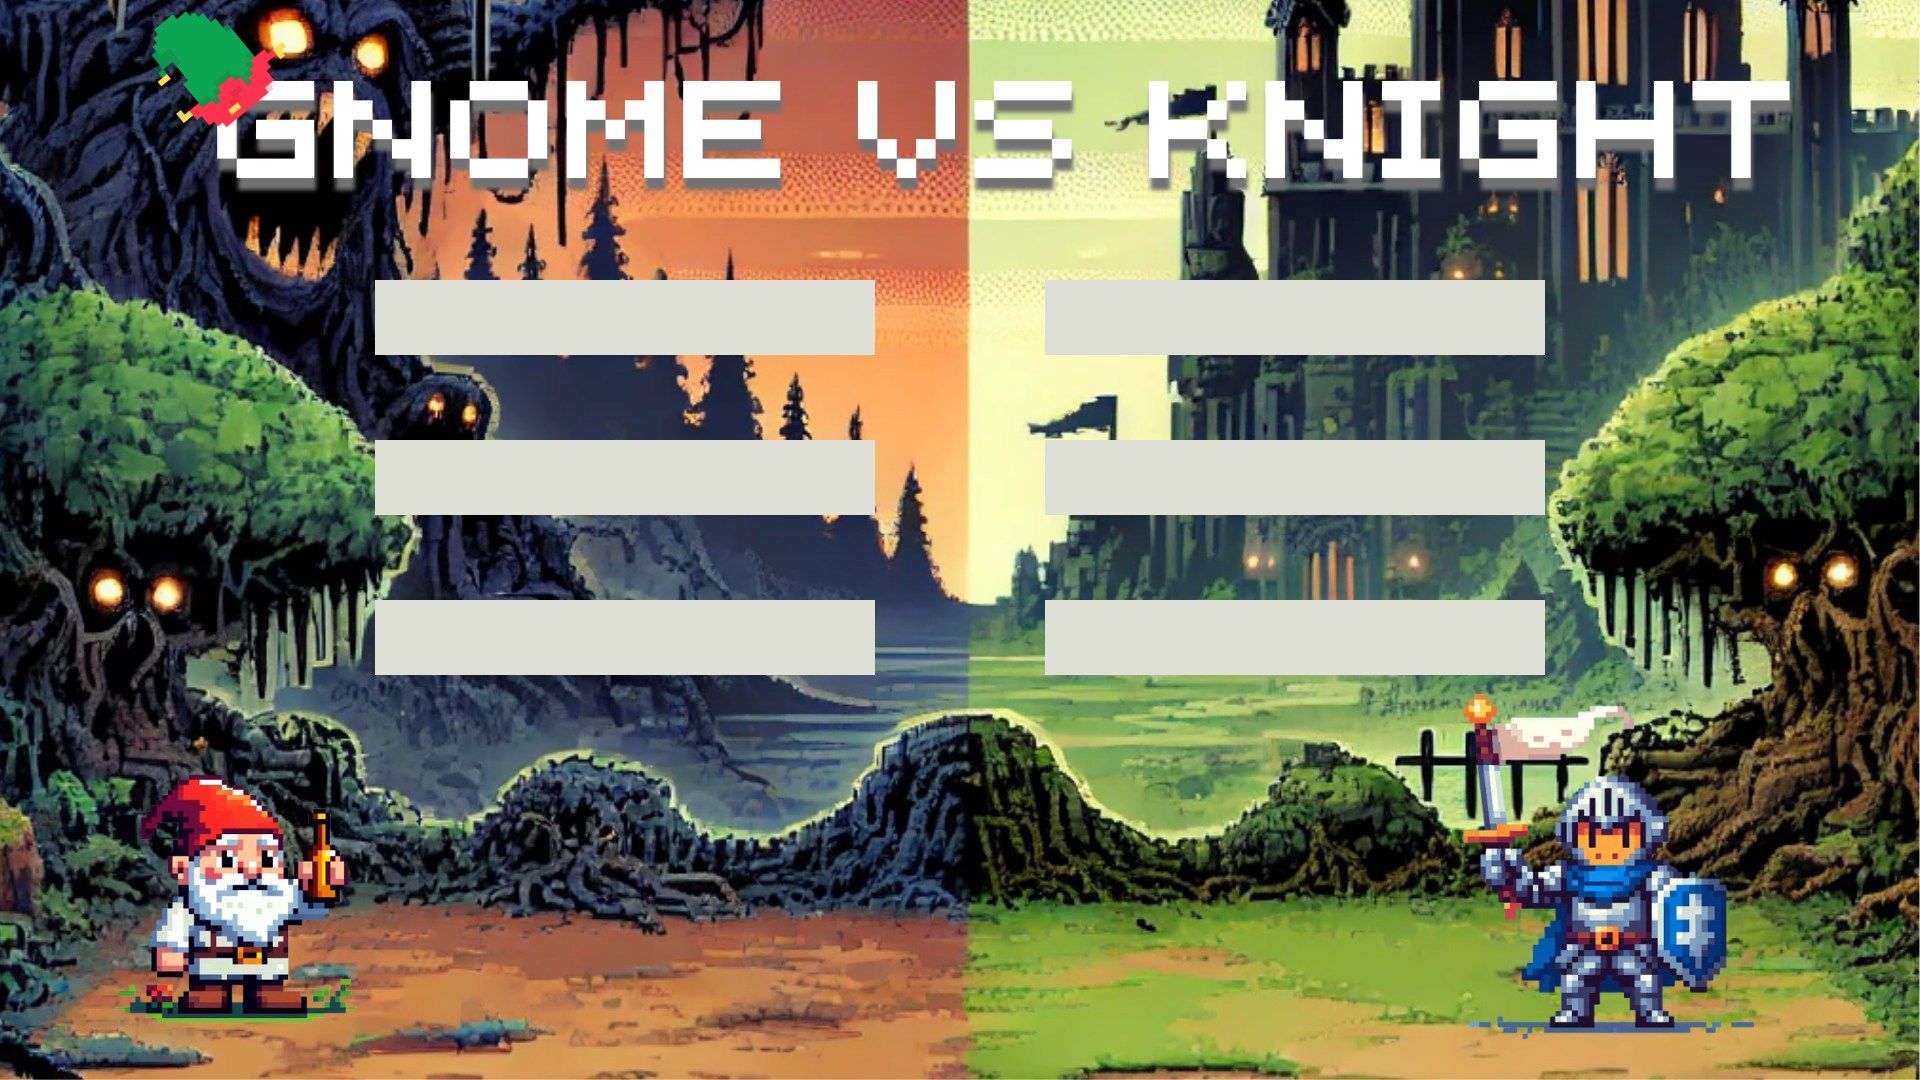
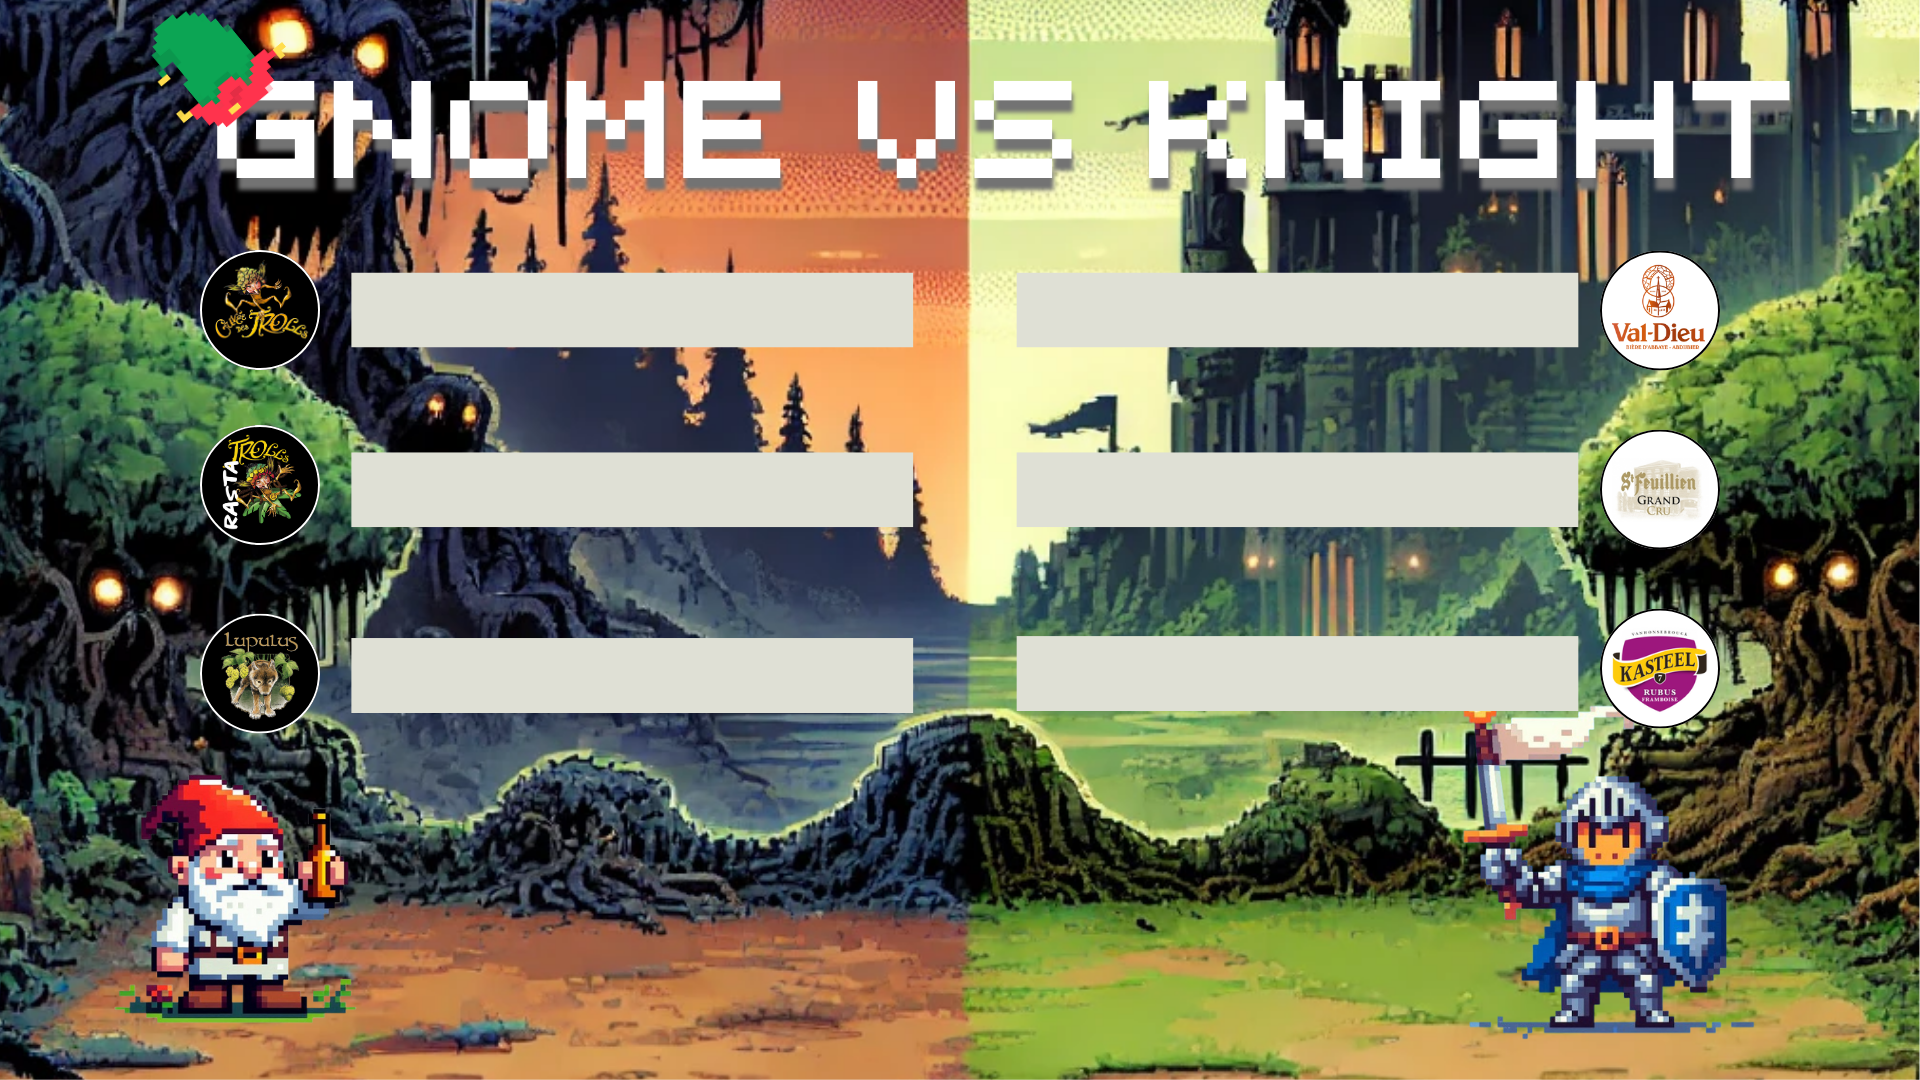
Modifs et ajout des bières sur duel GKA24

diff --git a/src/pages/duelGKA24/duelGKA24.js b/src/pages/duelGKA24/duelGKA24.js
@@ -80,12 +80,20 @@ class duelGKA24 extends React.Component {
 
     render() {
         
-        const cuvee = this.state.drinks.find(x => x.id === CUVEE_ID).total;
+        /*const cuvee = this.state.drinks.find(x => x.id === CUVEE_ID).total;
         const rasta = this.state.drinks.find(x => x.id === RASTA_ID).total;
         const lupulus = this.state.drinks.find(x => x.id === LUPULUS_ID).total;
         const valdieu = this.state.drinks.find(x => x.id === VALDIEU_ID).total;
         const stfeuillien = this.state.drinks.find(x => x.id === STFEUILLIEN_ID).total;
         const rubus = this.state.drinks.find(x => x.id === RUBUS_ID).total;
+*/
+
+        const cuvee = 45
+        const rasta = 16
+        const lupulus = 8
+        const valdieu = 15
+        const stfeuillien = 37
+        const rubus = 13
 
         const PtsGnome = cuvee + rasta + lupulus
         const PtsKnight = valdieu + stfeuillien + rubus

diff --git a/src/pages/duelGKA24/duelGKA24.css b/src/pages/duelGKA24/duelGKA24.css
@@ -36,43 +36,43 @@
 
 .cuvee{
     position: absolute;
-    left: 277px;
-    top: 180.5px;
+    left: 260px;
+    top: 175px;
     z-index: 1;
 }
 
 .rasta{
     position: absolute;
-    left: 277px;
-    top: 300.5px;
+    left: 260px;
+    top: 310px;
     z-index: 1;
 }
 
 .lupulus{
     position: absolute;
-    left: 277px;
-    top: 421px;
+    left: 260px;
+    top: 450px;
     z-index: 1;
 }
 
 .valdieu{
     position: absolute;
-    right: 277px;
-    top: 180.5px;
+    right: 253px;
+    top: 175px;
     z-index: 1;
 }
 
 .stfeuillien{
     position: absolute;
-    right: 277px;
-    top: 300.5px;
+    right: 253px;
+    top: 310px;
     z-index: 1;
 }
 
 .rubus{
     position: absolute;
-    right: 277px;
-    top: 421px;
+    right: 253px;
+    top: 449px;
     z-index: 1;
 }
 
